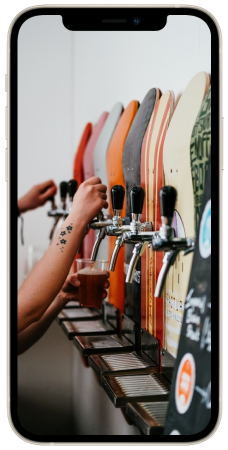
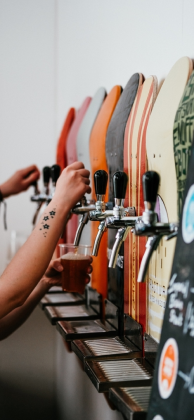
fix section 2

diff --git a/index.html b/index.html
@@ -59,24 +59,7 @@
 
 
 
-
-
-
-
-
-
-
-
-
-
-
-
-    
 <!-- 2-я секция на чёрном фоне с шестью флекс-блоками -->
-
-
-
-
     <div class="section-2">
         <div class="section-2-header">
             <h3 class="section-2-header-title">FEATURES</h3>
@@ -84,7 +67,9 @@
         </div>
         <div class="section-2-content">
             <div class="section-2-content-item">
-                <img class="section-2-content-item-img" src="./assets/image/sec-2-img1.png" width="227" height="450">
+                <img class="section-2-content-item-phone-border" src="./assets/image/sec-2-phone-border.png" width="227" height="450">
+                <img class="section-2-content-item-phone-img" src="./assets/image/sec-2-img1.png" width="197" height="420">
+                <img class="section-2-content-item-phone-main" src="./assets/image/sec-2-phone-black.png" width="227" height="450">
                 <div class="section-2-content-item-footer">
                     <h2 class="section-2-content-item-footer__title-1">Calendar view</h2>
                     <p class="section-2-content-item-footer__text">Lorem ipsum dolor sit amet, consectetur adipiscing elit. Nullam scelerisque aliquam odio et faucibus.</p>
@@ -92,15 +77,19 @@
                 <img class="section-2-content-item-img__logo" src="./assets/image/sec-2-footer-img1.png" width="64" height="64">
             </div>
             <div class="section-2-content-item">
-                <img class="section-2-content-item-img" src="./assets/image/sec-2-img2.png" width="227" height="450">
+                <img class="section-2-content-item-phone-border" src="./assets/image/sec-2-phone-border.png" width="227" height="450">
+                <img class="section-2-content-item-phone-img" src="./assets/image/sec-2-img2.png" width="197" height="420">
+                <img class="section-2-content-item-phone-main" src="./assets/image/sec-2-phone-border.png" width="227" height="450">
                 <div class="section-2-content-item-footer">
                     <h2 class="section-2-content-item-footer__title-2">Lists</h2>
                     <p class="section-2-content-item-footer__text">Dolor sit amet urna turpis. Mauris euismod elit et nisi ultrices, ut faucibus orci tincidunt.</p>
                 </div>
                 <img class="section-2-content-item-img__logo" src="./assets/image/sec-2-footer-img2.png" width="64" height="64">
             </div>
-            <div class="section-2-content-item">
-                <img class="section-2-content-item-img" src="./assets/image/sec-2-img1.png" width="227" height="450">
+                        <div class="section-2-content-item">
+                <img class="section-2-content-item-phone-border" src="./assets/image/sec-2-phone-border.png" width="227" height="450">
+                <img class="section-2-content-item-phone-img" src="./assets/image/sec-2-img3.png" width="197" height="420">
+                <img class="section-2-content-item-phone-main" src="./assets/image/sec-2-phone-black.png" width="227" height="450">
                 <div class="section-2-content-item-footer">
                     <h2 class="section-2-content-item-footer__title-3">Varied type</h2>
                     <p class="section-2-content-item-footer__text">Nulla rhoncus feugiat eros quis consectetur. Morbi neque ex, condimentum dapibus congue.</p>
@@ -108,7 +97,9 @@
                 <img class="section-2-content-item-img__logo" src="./assets/image/sec-2-footer-img3.png" width="64" height="64">
             </div>
             <div class="section-2-content-item">
-                <img class="section-2-content-item-img" src="./assets/image/sec-2-img4.png" width="227" height="450">
+                <img class="section-2-content-item-phone-border" src="./assets/image/sec-2-phone-border.png" width="227" height="450">
+                <img class="section-2-content-item-phone-img" src="./assets/image/sec-2-img4.png" width="197" height="420">
+                <img class="section-2-content-item-phone-main" src="./assets/image/sec-2-phone-border.png" width="227" height="450">
                 <div class="section-2-content-item-footer">
                     <h2 class="section-2-content-item-footer__title-4">Split-screen</h2>
                     <p class="section-2-content-item-footer__text">Vestibulum ultrices, orci nec egestas pharetra, ligula est semper enim, nec auctor sapien leo nec purus.</p>
@@ -116,7 +107,9 @@
                 <img class="section-2-content-item-img__logo" src="./assets/image/sec-2-footer-img4.png" width="64" height="64">
             </div>
             <div class="section-2-content-item">
-                <img class="section-2-content-item-img" src="./assets/image/sec-2-img1.png" width="227" height="450">
+                <img class="section-2-content-item-phone-border" src="./assets/image/sec-2-phone-border.png" width="227" height="450">
+                <img class="section-2-content-item-phone-img" src="./assets/image/sec-2-img5.png" width="197" height="420">
+                <img class="section-2-content-item-phone-main" src="./assets/image/sec-2-phone-black.png" width="227" height="450">
                 <div class="section-2-content-item-footer">
                     <h2 class="section-2-content-item-footer__title-5">Uploads</h2>
                     <p class="section-2-content-item-footer__text">Duis tristique sed lorem a vestibulum. Cras commodo consequat orci, in convallis risus egestas non.</p>
@@ -124,7 +117,9 @@
                 <img class="section-2-content-item-img__logo" src="./assets/image/sec-2-footer-img5.png" width="64" height="64">
             </div>
             <div class="section-2-content-item">
-                <img class="section-2-content-item-img" src="./assets/image/sec-2-img6.png" width="227" height="450">
+                <img class="section-2-content-item-phone-border" src="./assets/image/sec-2-phone-border.png" width="227" height="450">
+                <img class="section-2-content-item-phone-img" src="./assets/image/sec-2-img6.png" width="197" height="420">
+                <img class="section-2-content-item-phone-main" src="./assets/image/sec-2-phone-border.png" width="227" height="450">
                 <div class="section-2-content-item-footer">
                     <h2 class="section-2-content-item-footer__title-6">Focus mode</h2>
                     <p class="section-2-content-item-footer__text">Lorem sit amet urna turpis. Mauris euismod elit et nisi ultrices, ut faucibus orci tincidunt.</p>

diff --git a/styles/style.css b/styles/style.css
@@ -78,13 +78,10 @@
 
 /* секция 1 на белом фоне */
 .section-1 {
-    
     /* следующие 2 свойства для быстрого просмотра блока */
-
+    
     /* background-color:aliceblue;
     border: 1px solid black; */
-
-
 
     display: flex;
     justify-content: space-around;
@@ -96,7 +93,6 @@
 }
 
 .section-1-content {
-
     /* следующее свойство для быстрого просмотра блока */
     /* background-color: aqua; */
     position: relative;
@@ -127,11 +123,6 @@
     position: absolute;
     z-index: 3;
 }
-
-
-
-
-
 .section-1-content-list {
     display: flex;
 }
@@ -148,32 +139,31 @@
 
 /* секция 2 на чёрном фоне с шестью флекс-блоками */
 .section-2 {
-
     position: absolute;
     z-index: 3;
     margin: -5px auto;
     width: 100%;
     height: 1400px;
-    background-color: rgb(0, 0, 0);
+        background-color: rgb(0, 0, 0);
     font-size: 1.4rem;
     text-align: center;
     color: white;
 }
 
 .section-2-header {
-    margin: auto;
-    width: 1600px;
-    height: 110px;
+    margin: 50px auto 0;
+    width: 600px;
+    height: 130px;
 }
 
 .section-2-header-title {
     /* задаём отступ между буквами */
-    padding-top: 100px;
+    padding-bottom: 10px;
     letter-spacing: 0.5em;
 }
 
 .section-2-content {
-    margin: 150px auto;
+    margin: 50px auto;
     display: flex;
     flex-wrap: wrap;
     max-width: 1200px;
@@ -181,7 +171,7 @@
 }
 
 .section-2-content-item {
-
+    position: relative;
     margin: auto;
     background-color: white;
     border-radius: 30px;
@@ -189,25 +179,54 @@
     height: 490px;
 }
 
-.section-2-content-item-img__logo {
-    position: absolute;
-    margin: 260px -140px;
+.section-2-content-item-footer {
+position: absolute;
+z-index: 4;
+background-color: #F2F2F2;
+border-bottom-left-radius: 30px;
+border-bottom-right-radius: 30px;
+margin-top: 290px;
+width: 380px;
+height: 200px;
+font-size: 1.8rem;
 }
 
-.section-2-content-item-footer {
+.section-2-content-item-img__logo {
     position: absolute;
-    background-color: #F2F2F2;
-    border-bottom-left-radius: 30px;
-    border-bottom-right-radius: 30px;
-    margin-top: -255px;
-    width: 380px;
-    height: 200px;
-    font-size: 1.8rem;
+    z-index: 4;
+    top: 55%;
+    left: 50%;
+    transform: translate(-50%);
 }
 
 .section-2-content-item-footer__title-1 {
     margin: 50px auto;
     color: #0278ED;
+}
+
+.section-2-content-item-phone-border {
+    position: absolute;
+    z-index: 1;
+    margin-top: 45px;
+    left: 50%;
+    transform: translateX(-50%);
+
+}
+
+.section-2-content-item-phone-img {
+    position: absolute;
+    z-index: 2;
+    margin-top: 60px;
+    left: 50%;
+    transform: translateX(-50%);
+}
+
+.section-2-content-item-phone-main {
+    position: absolute;
+    z-index: 3;
+    margin-top: 45px;
+    left: 50%;
+    transform: translateX(-50%);
 }
 
 .section-2-content-item-footer__title-2 {
@@ -240,10 +259,7 @@
     color: black;
 }
 
-.section-2-content-item-img {
-    margin: 45px auto;
 
-}
 
 
 
